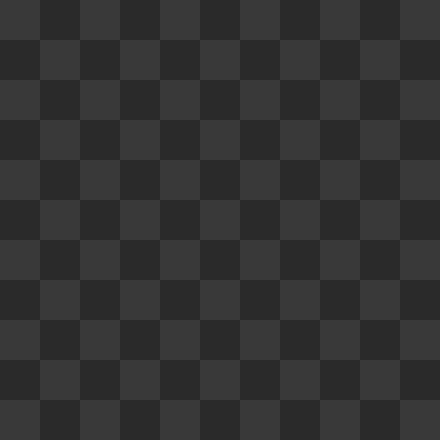
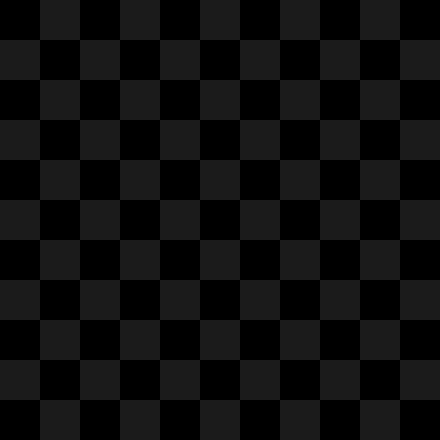
Sunday Morning

diff --git a/Tactics/version_1.04/tiles.py b/Tactics/version_1.04/tiles.py
@@ -20,9 +20,62 @@ class Tile():
 
 class TileMap():
 
-    def __init__(self):
+    def __init__(self, filepath, list):
+
+        # Tilemap On/Off Switches
+        self.is_on = False
 
         # Set tile size and starting coordinates
         self.tile_size = 40
-        self.start_x = 0
-        self.start_y = 0
+        self.start_x = 40
+        self.start_y = 40
+
+        self.tiles = []
+
+        y = 1
+
+        # Iterate by Row
+        for row in list:
+            x = 1
+
+            # Iterate by Value
+            for value in row:
+                self.tiles.append(Tile(filepath[value], x * self.tile_size, y * self.tile_size))
+                        
+                # Next Tile
+                x += 1
+
+            # Next Row
+            y += 1
+
+    # Draw Tiles
+    def display_map(self, window):
+
+        if self.is_on:
+
+            for tile in self.tiles:
+                window.screen.blit(tile.image, tile.rect)
+
+# Filepath Array
+tiles_array = [
+                'Images/blank_tile.png',
+                'Images/white_tile.png'
+                ]
+
+# Starting Tilemap List
+blank_map = [
+                [1, 1, 1, 1, 1, 1, 1, 1, 1],
+                [1, 1, 1, 1, 1, 1, 1, 1, 1],
+                [1, 1, 1, 1, 1, 1, 1, 1, 1],
+                [1, 1, 1, 1, 1, 1, 1, 1, 1],
+                [1, 1, 1, 1, 1, 1, 1, 1, 1],
+                [1, 1, 1, 1, 1, 1, 1, 1, 1],
+                [1, 1, 1, 1, 1, 1, 1, 1, 1],
+                [1, 1, 1, 1, 1, 1, 1, 1, 1],
+                [1, 1, 1, 1, 1, 1, 1, 1, 1]
+            ]
+
+# Starting Tilemap
+blank_tilemap = TileMap(tiles_array, blank_map)
+
+

diff --git a/Tactics/version_1.04/main.py b/Tactics/version_1.04/main.py
@@ -2,6 +2,7 @@ import pygame
 
 from window import *
 from background import *
+from tiles import *
 from clock import *
 from main_menu import *
 
@@ -14,6 +15,8 @@ def update_screen(window):
     window.screen.fill((0, 0, 0))
     # Background Display
     background.move(window)
+    # Tilemap Display
+    blank_tilemap.display_map(window)
     # Clock Display
     clock.display_time(window)
     # Main Menu Display
@@ -24,7 +27,7 @@ def update_screen(window):
 # Detect Clicking
 def detect_clicks():
     # Main Menu Clicks
-    main_menu.detect_click()
+    main_menu.detect_click(blank_tilemap)
 
 # Main Method
 def main():

diff --git a/Tactics/version_1.04/main_menu.py b/Tactics/version_1.04/main_menu.py
@@ -76,7 +76,7 @@ class MainMenu():
                 window.screen.blit(self.image_array[2], self.scores_rect)
 
     # Detect Click
-    def detect_click(self):
+    def detect_click(self, tilemap):
 
         # Get Mouse Position
         pos = pygame.mouse.get_pos()
@@ -88,6 +88,7 @@ class MainMenu():
                 print("Entering Game")
                 # Turn main menu off, class selection on
                 self.is_on = False
+                tilemap.is_on = True
             # Load Game
             if self.load_game_rect.collidepoint(pos):
                 print("Entering Load Game\n - Choose File Save")
